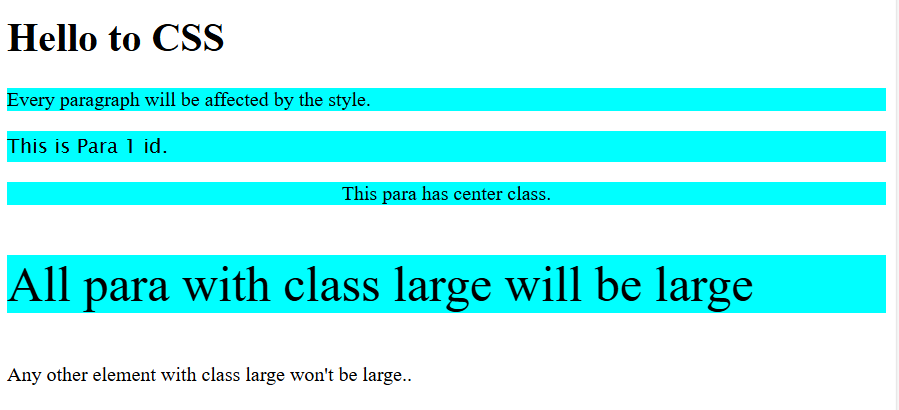
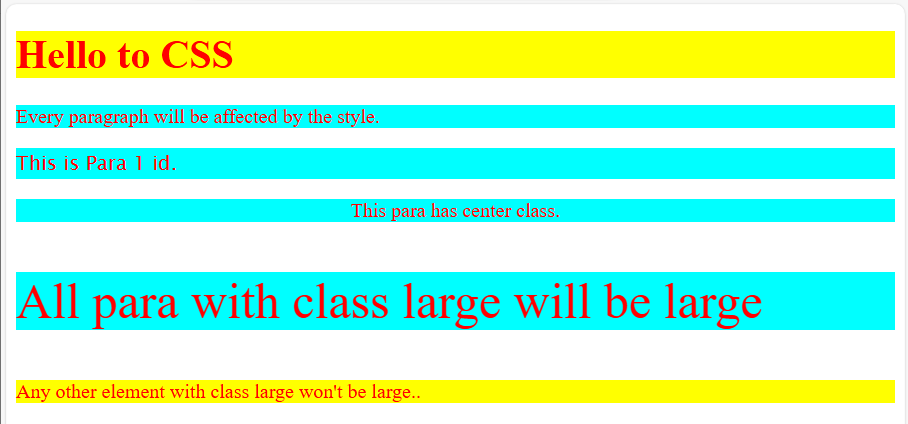
css background

diff --git a/css-course/democode.html b/css-course/democode.html
@@ -7,6 +7,63 @@
     <link rel="stylesheet" href="style.css">
 </head>
 <body>
+    <h1>The background Property</h1>
+
+    <p>Background color is changed</p>
+
+    <p>No Repeat</p>
+
+    <p>Background image attackment fixed</p>
+
+    <p>The background-image is fixed. Try to scroll down the page.</p>
+    <p>The background-image is fixed. Try to scroll down the page.</p>
+    <p>The background-image is fixed. Try to scroll down the page.</p>
+    <p>The background-image is fixed. Try to scroll down the page.</p>
+    <p>The background-image is fixed. Try to scroll down the page.</p>
+    <p>The background-image is fixed. Try to scroll down the page.</p>
+    <p>The background-image is fixed. Try to scroll down the page.</p>
+    <p>The background-image is fixed. Try to scroll down the page.</p>
+    <p>The background-image is fixed. Try to scroll down the page.</p>
+    <p>The background-image is fixed. Try to scroll down the page.</p>
+    <p>The background-image is fixed. Try to scroll down the page.</p>
+    <p>The background-image is fixed. Try to scroll down the page.</p>
+    <p>The background-image is fixed. Try to scroll down the page.</p>
+    <p>The background-image is fixed. Try to scroll down the page.</p>
+    <p>The background-image is fixed. Try to scroll down the page.</p>
+    <p>The background-image is fixed. Try to scroll down the page.</p>
+    <p>The background-image is fixed. Try to scroll down the page.</p>
+    <p>The background-image is fixed. Try to scroll down the page.</p>
+    <p>The background-image is fixed. Try to scroll down the page.</p>
+    <p>The background-image is fixed. Try to scroll down the page.</p>
+    <p>The background-image is fixed. Try to scroll down the page.</p>
+    <p>The background-image is fixed. Try to scroll down the page.</p>
+    <p>The background-image is fixed. Try to scroll down the page.</p>
+    <p>The background-image is fixed. Try to scroll down the page.</p>
+    <p>The background-image is fixed. Try to scroll down the page.</p>
+    <p>The background-image is fixed. Try to scroll down the page.</p>
+    <p>The background-image is fixed. Try to scroll down the page.</p>
+    <p>The background-image is fixed. Try to scroll down the page.</p>
+    <p>The background-image is fixed. Try to scroll down the page.</p>
+    <p>The background-image is fixed. Try to scroll down the page.</p>
+    <p>The background-image is fixed. Try to scroll down the page.</p>
+    <p>The background-image is fixed. Try to scroll down the page.</p>
+    <p>The background-image is fixed. Try to scroll down the page.</p>
+    <p>The background-image is fixed. Try to scroll down the page.</p>
+    <p>The background-image is fixed. Try to scroll down the page.</p>
+    <p>The background-image is fixed. Try to scroll down the page.</p>
+    <p>The background-image is fixed. Try to scroll down the page.</p>
+    <p>The background-image is fixed. Try to scroll down the page.</p>
+    <p>The background-image is fixed. Try to scroll down the page.</p>
+    <p>The background-image is fixed. Try to scroll down the page.</p>
+    <p>The background-image is fixed. Try to scroll down the page.</p>
+    <p>The background-image is fixed. Try to scroll down the page.</p>
+    <p>The background-image is fixed. Try to scroll down the page.</p>
+    <p>The background-image is fixed. Try to scroll down the page.</p>
+
+</body>
+</html>
+
+<!-- <body>
     <h1>Hello to CSS</h1>
     <p>Every paragraph will be affected by the style.</p>
     <p id="para1">This is Para 1 id.</p>
@@ -14,5 +71,4 @@
     <p class="large">All para with class large will be large</p>
     <div class="large">Any other element with class
          large won't be large..</div>
-</body>
-</html>
+</body> -->

diff --git a/css-course/style.css b/css-course/style.css
@@ -1,3 +1,6 @@
+/* *{
+    color: red;
+}
 p {
     background-color: aqua;
 }
@@ -9,4 +12,15 @@ p {
 }
 p.large{
     font-size: 40px;
+}
+h1,div{
+    background-color: yellow;
+} */
+
+body{
+    background-color: pink;
+    background-image: url(cssimages/sticket.png);
+    background-repeat: no-repeat;
+    background-position: right bottom;
+    background-attachment: fixed;
 }
